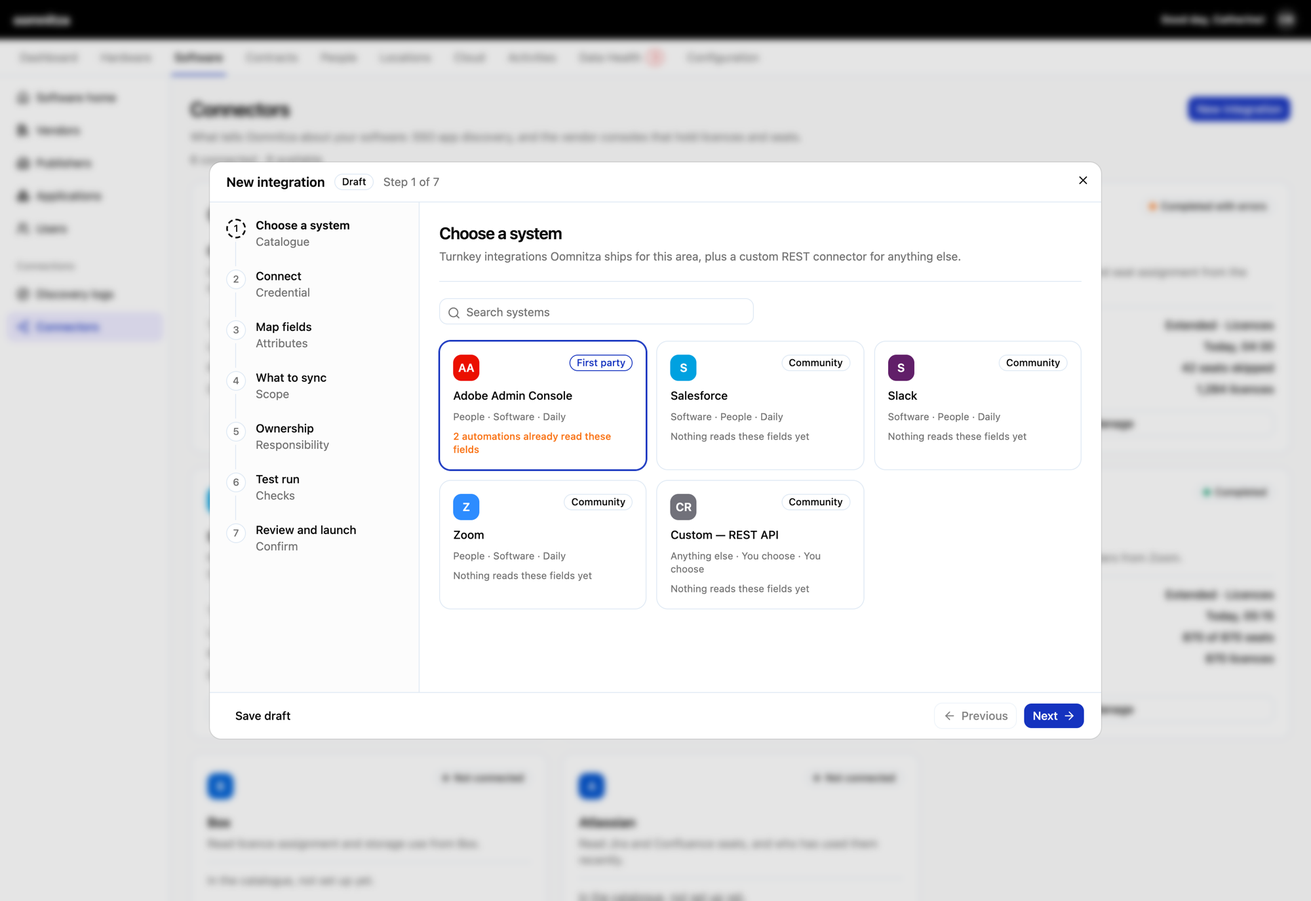
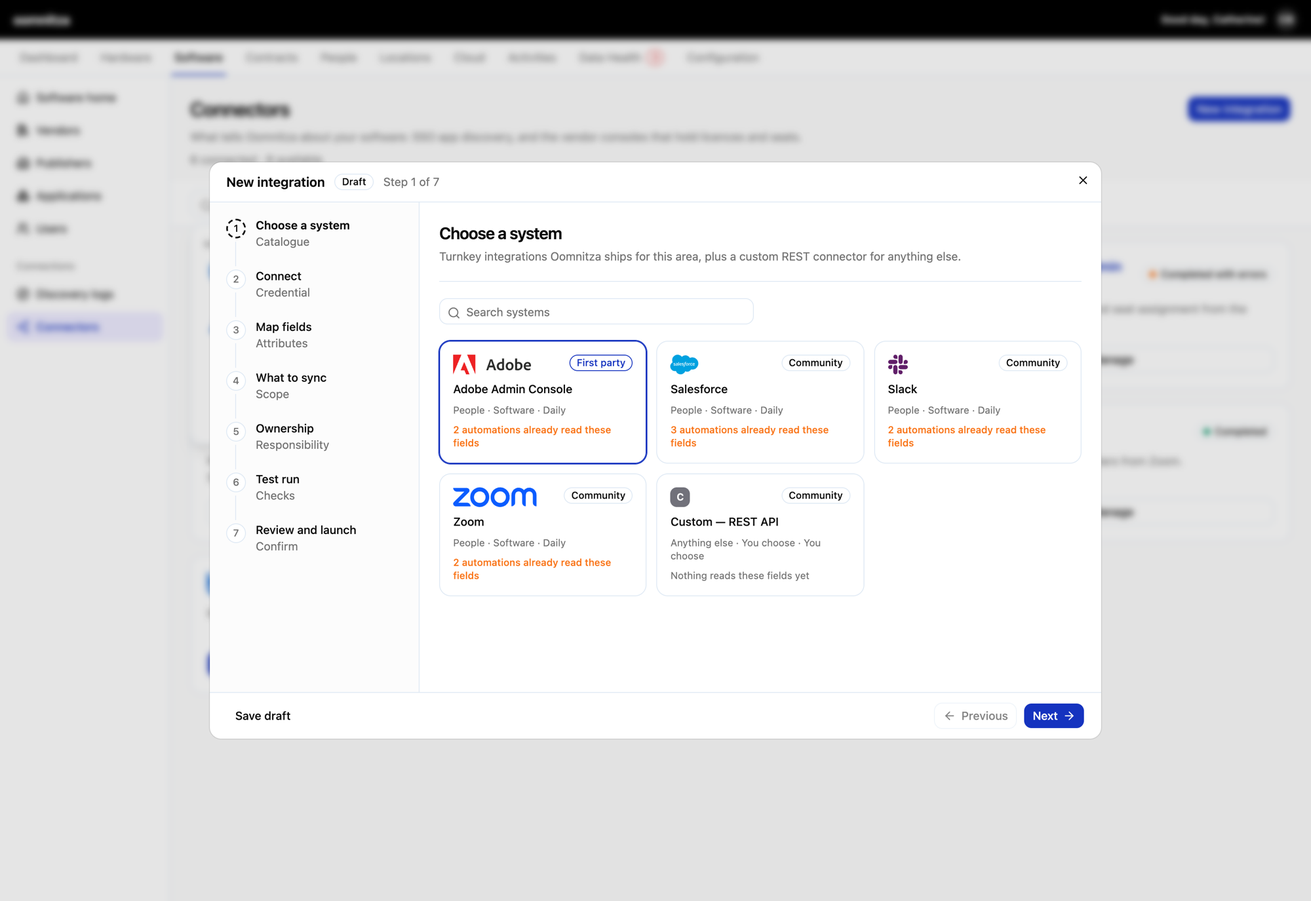
Re-shoot the integration work, and show it decision by decision
Every figure in the two newer sections is re-captured from the current
prototype: real vendor marks, cards stripped back to the mark, the name and
the state, and the catalogue search in place.

Two figures are new. The flow switcher gains Authorise, because choosing
OAuth now performs the handoff rather than naming it, and that step is the
one this case study has been arguing for all along: a credential with a name
on it. And one connector's own page, where the mappings shown are the rows
the setup flow writes.

Fig. S is a component gallery of nine decisions, each cropped to itself and
captioned with the claim it makes. The gallery script now binds to every
.gal-fig rather than one id, and crops render at their own size instead of
being stretched to the pane.

diff --git a/portfolio/index.html b/portfolio/index.html
@@ -1047,6 +1047,7 @@ section[id]{scroll-margin-top:72px}
 .gal-bar i{position:absolute;inset:0;background:var(--signal);transform-origin:left;transform:scaleX(0)}
 .gal-bar i.run{animation:galRun var(--t,4.5s) linear forwards}
 @keyframes galRun{to{transform:scaleX(1)}}
+#cx-fig .gal-stage img{width:auto;max-width:100%;margin-inline:auto}
 @media (max-width:860px){.gal{grid-template-columns:minmax(0,1fr)}.gal-list{border-right:0;border-bottom:1px solid var(--line);flex-direction:row;overflow-x:auto}.gal-list button{white-space:nowrap}.gal-list button span{display:none!important}}
 
 /* ---------- squadcurve: device collage ---------- */
@@ -2018,43 +2019,52 @@ section[id]{scroll-margin-top:72px}
         <p>Everything above is one integration failing. The same question runs backwards through the platform: an automation only breaks because something mapped a field to it, and nobody said so at the time. So I designed the step before the failure, where a system gets connected.</p>
         <p>Mapping is what creates the dependency. An automation reads an Oomnitza field, so it depends on whichever integration fills that field. Today you learn that when the integration stops. Here the flow says it before launch, while adding a freshness gate is still cheap.</p>
         <figure class="sheet">
-          <div class="shot" style="aspect-ratio:2000/1582" data-zoom><img src="img/dh-connectors.png" alt="The connectors catalogue in the prototype: a search field that stays with the reader, then a three-column grid of cards, each with the vendor mark, a status pill, what the connector reads, and its type, last run, records and what it discovered." width="2000" height="1582" loading="lazy" decoding="async"></div>
+          <div class="shot" style="aspect-ratio:2000/1125" data-zoom><img src="img/dh-connectors.png" alt="The connectors catalogue: a search field that stays with the reader, then a grid of cards, each with the vendor's own mark beside what the connector does, a status pill, and one line on what it reads." width="2000" height="1125" loading="lazy" decoding="async"></div>
           <figcaption class="titleblock"><span>Fig. M</span><span class="tb-title">The catalogue: what tells Oomnitza about your software<span class="zoom-hint"> · hover to magnify</span></span><span>Real screens</span></figcaption>
         </figure>
-        <p>Connectors are split by what they answer, not by vendor. SaaS discovery and the licence consoles sit under Software; the people and device syncs sit under Configuration. That split is Oomnitza’s own: it ships a separate integration for Okta users and for Okta SaaS management, so the same vendor appears in both areas as two integrations rather than one straddling the line.</p>
-        <p>Which is also why the search stays with the reader as the grid scrolls, and why it searches what a connector reads as well as who sells it. Someone who knows they need licence data often does not know which vendor console holds it. Focusing the field suggests what this catalogue can answer, the systems not set up yet and the types and states it holds, rather than popular searches, because nothing here counts them. A search that finds nothing says which of the two catalogues you are in and where the other one is.</p>
+        <p>A card answers two questions and stops: what is this, and is it working. The mark leads, so the name can drop the vendor it was repeating, and everything else, the last run, the records, what reads it, belongs to the one connector you opened rather than to all fourteen at once. Connectors are split by what they answer, not by vendor: SaaS discovery and the licence consoles under Software, the people and device syncs under Configuration. That split is Oomnitza's own, which ships a separate integration for Okta users and for Okta SaaS management.</p>
 
         <h3 class="mono hr-h">Seven steps, in a modal over the catalogue</h3>
         <p>Adding an integration is a detour, not a destination: it starts from the catalogue and ends back on it, so leaving half-done is a close rather than a navigation. Three of the steps came out of a pass over how Estuary, ClickUp, Fivetran and Airbyte handle the same job.</p>
         <div class="seg" role="tablist" aria-label="Integration step">
           <span class="seg-ind" aria-hidden="true"></span>
-          <button type="button" role="tab" id="tab-dh-f1" aria-controls="view-dh-f1" aria-selected="true" data-role="dh-f1">Choose a system</button>
-          <button type="button" role="tab" id="tab-dh-f2" aria-controls="view-dh-f2" aria-selected="false" tabindex="-1" data-role="dh-f2">Map fields</button>
-          <button type="button" role="tab" id="tab-dh-f3" aria-controls="view-dh-f3" aria-selected="false" tabindex="-1" data-role="dh-f3">Review and launch</button>
+          <button type="button" role="tab" id="tab-dh-f1" aria-controls="view-dh-f1" aria-selected="true" data-role="dh-f1">Choose</button>
+          <button type="button" role="tab" id="tab-dh-f2" aria-controls="view-dh-f2" aria-selected="false" tabindex="-1" data-role="dh-f2">Authorise</button>
+          <button type="button" role="tab" id="tab-dh-f3" aria-controls="view-dh-f3" aria-selected="false" tabindex="-1" data-role="dh-f3">Map fields</button>
+          <button type="button" role="tab" id="tab-dh-f4" aria-controls="view-dh-f4" aria-selected="false" tabindex="-1" data-role="dh-f4">Review</button>
         </div>
         <figure class="sheet">
           <div class="shot views" style="aspect-ratio:2000/1375" data-zoom>
             <div class="view on" id="view-dh-f1" role="tabpanel" aria-labelledby="tab-dh-f1"><img src="img/dh-flow-choose.png" alt="Step 1 of 7, Choose a system: a modal over the catalogue with the seven steps down the left, and vendor cards that each say what the connector writes, how often, who maintains it and how many automations already read those fields." width="2000" height="1375" loading="lazy" decoding="async"></div>
-            <div class="view" id="view-dh-f2" role="tabpanel" aria-labelledby="tab-dh-f2"><img src="img/dh-flow-map.png" alt="Step 3 of 7, Map fields: each vendor attribute against the Oomnitza field it writes and the object it belongs to, with email marked required and country left unmapped." width="2000" height="1375" loading="lazy" decoding="async"></div>
-            <div class="view" id="view-dh-f3" role="tabpanel" aria-labelledby="tab-dh-f3"><img src="img/dh-flow-review.png" alt="Step 7 of 7, Review and launch: a summary table, then What will depend on this, naming offboarding as having a freshness gate and a SAM licence rule as unable to take one." width="2000" height="1375" loading="lazy" decoding="async"></div>
+            <div class="view" id="view-dh-f2" role="tabpanel" aria-labelledby="tab-dh-f2"><img src="img/dh-flow-connect.png" alt="Step 2 of 7, Connect: the endpoint fields, the scopes ticked as granted, and a green panel saying who authorised the integration, when, and that the grant ends if that account is deactivated." width="2000" height="1375" loading="lazy" decoding="async"></div>
+            <div class="view" id="view-dh-f3" role="tabpanel" aria-labelledby="tab-dh-f3"><img src="img/dh-flow-map.png" alt="Step 3 of 7, Map fields: each vendor attribute against the Oomnitza field it writes and the object it belongs to, with one marked required and one left unmapped." width="2000" height="1375" loading="lazy" decoding="async"></div>
+            <div class="view" id="view-dh-f4" role="tabpanel" aria-labelledby="tab-dh-f4"><img src="img/dh-flow-review.png" alt="Step 7 of 7, Review and launch: a summary table, then What will depend on this, naming offboarding as having a freshness gate and a SAM licence rule as unable to take one." width="2000" height="1375" loading="lazy" decoding="async"></div>
           </div>
-          <figcaption class="titleblock"><span>Fig. N</span><span class="tb-title">Connecting a system, three of seven steps<span class="zoom-hint"> · hover to magnify</span></span><span>Real screens</span></figcaption>
+          <figcaption class="titleblock"><span>Fig. N</span><span class="tb-title">Connecting a system, four of seven steps<span class="zoom-hint"> · hover to magnify</span></span><span>Real screens</span></figcaption>
         </figure>
         <div class="notes">
           <div class="note" data-note="dh-f1"><ul class="ticks dots"><li>The catalogue card says what a connector writes, how often, who maintains it, and how many automations already read those fields, so the cost of adding it is legible before you add it.</li><li>The modal keeps the catalogue behind it. Cancelling at step 4 puts you back where you started, with a draft.</li></ul></div>
-          <div class="note" data-note="dh-f2" hidden><ul class="ticks dots"><li>Every row names the Oomnitza field and the object it writes to, because that is the thing an automation will later read.</li><li>An unmapped attribute is allowed, and the step says what that means rather than blocking: it is simply not imported.</li><li>Username is required and the integration stays in Draft until it is mapped, which follows Oomnitza’s own setup.</li></ul></div>
-          <div class="note" data-note="dh-f3" hidden><ul class="ticks dots"><li>Before launch, the step names each automation that will depend on this integration, and whether it can wait for it.</li><li>Offboarding has a freshness gate, so it waits. A SAM licence rule cannot take one, so it runs whether or not the integration completed.</li><li>This is the same dependency the workspace shows after a failure. Showing it here is the cheaper half of the same idea.</li></ul></div>
+          <div class="note" data-note="dh-f2" hidden><ul class="ticks dots"><li>Choosing OAuth performs the handoff rather than naming it: the step sends you to the vendor, waits, and comes back with who authorised it, when, and which scopes were granted.</li><li>An earlier version listed the scopes it would request and then never requested them, so OAuth and API key produced the same screen. Showing a promise and not keeping it is worse than not making it.</li><li>Re-authorise is the same control an admin uses when a credential expires, which is exactly what the Okta failure at the top of this case study turns out to be.</li></ul></div>
+          <div class="note" data-note="dh-f3" hidden><ul class="ticks dots"><li>Every row names the Oomnitza field and the object it writes to, because that is the thing an automation will later read.</li><li>An unmapped attribute is allowed, and the step says what that means rather than blocking: it is simply not imported.</li><li>Username is required and the integration stays in Draft until it is mapped, which follows Oomnitza's own setup.</li></ul></div>
+          <div class="note" data-note="dh-f4" hidden><ul class="ticks dots"><li>Before launch, the step names each automation that will depend on this integration, and whether it can wait for it.</li><li>Offboarding has a freshness gate, so it waits. A SAM licence rule cannot take one, so it runs whether or not the integration completed.</li><li>This is the same dependency the workspace shows after a failure. Showing it here is the cheaper half of the same idea.</li></ul></div>
         </div>
+
+        <h3 class="mono hr-h">Then the connector has a page of its own</h3>
+        <p>Three tabs: what it is, what its runs did, and what reads it. The page makes no recommendation, because which of those workflows matters is the reader's call. The mappings it shows are the same rows the setup flow writes, and the workflows are computed from them, so the two screens cannot drift apart.</p>
+        <figure class="sheet">
+          <div class="shot" style="aspect-ratio:2000/1300" data-zoom><img src="img/dh-connector-detail.png" alt="One connector's page: Adobe Admin Console with Details, Sync log and Connected workflows tabs, showing the credential, the last authentication result and the schedule." width="2000" height="1300" loading="lazy" decoding="async"></div>
+          <figcaption class="titleblock"><span>Fig. O</span><span class="tb-title">One connector: details, sync log, connected workflows<span class="zoom-hint"> · hover to magnify</span></span><span>Real screens</span></figcaption>
+        </figure>
       </section>
 
       <section id="dh-discovery" class="cs-sec" data-switcher>
         <p class="eyebrow mono">Software discovery</p>
         <h2>Nothing is an application until somebody says so.</h2>
         <p>Once those connectors run, SaaS discovery returns everything people sign into: products, the publishers behind them, raw domains, one-off internal tools. None of it is categorised, and in a real tenant there are hundreds of rows. A discovery log is a holding area, not an inventory.</p>
-        <p>The decision is one way. A wrong match is harder to undo than an unmatched row, so the design never guesses on the reader’s behalf: Oomnitza proposes, a person decides, and the dialog says plainly that the entry cannot be anything else afterwards.</p>
+        <p>The decision is one way. A wrong match is harder to undo than an unmatched row, so the design never guesses on the reader's behalf: Oomnitza proposes, a person decides, and the dialog says plainly that the entry cannot be anything else afterwards.</p>
         <figure class="sheet">
           <div class="shot" style="aspect-ratio:2000/1375" data-zoom><img src="img/dh-discovery.png" alt="Discovery logs: a table of discovered entries with what found each one, when it was first seen and how many users it has, and a Log actions menu open on the Atlassian row offering Match as publisher, Match as application and Ignore." width="2000" height="1375" loading="lazy" decoding="async"></div>
-          <figcaption class="titleblock"><span>Fig. O</span><span class="tb-title">Every entry is new until it is matched or excluded<span class="zoom-hint"> · hover to magnify</span></span><span>Real screens</span></figcaption>
+          <figcaption class="titleblock"><span>Fig. P</span><span class="tb-title">Every entry is new until it is matched or excluded<span class="zoom-hint"> · hover to magnify</span></span><span>Real screens</span></figcaption>
         </figure>
         <ul class="ticks dots hr-list">
           <li>Rows carry no suggested category. Oomnitza classifies what a rule can decide and leaves the rest alone, so a row says what was found and who found it, never what it probably is.</li>
@@ -2062,7 +2072,7 @@ section[id]{scroll-margin-top:72px}
           <li>Ignoring is a decision too, so it has its own tab and counts as categorised.</li>
         </ul>
 
-        <h3 class="mono hr-h">Search what exists, or add what doesn’t</h3>
+        <h3 class="mono hr-h">Search what exists, or add what doesn't</h3>
         <p>Those are the only two outcomes, so they are the only two tabs. Search leads, because an inventory with two spellings of Atlassian in it is the problem this step exists to prevent.</p>
         <div class="seg" role="tablist" aria-label="How to resolve an entry">
           <span class="seg-ind" aria-hidden="true"></span>
@@ -2074,20 +2084,27 @@ section[id]{scroll-margin-top:72px}
             <div class="view on" id="view-dh-m1" role="tabpanel" aria-labelledby="tab-dh-m1"><img src="img/dh-match-search.png" alt="Match Atlassian as a publisher, Search tab: four ranked candidates, each with a confidence level, where it came from, and a line saying why it is a candidate." width="2000" height="1375" loading="lazy" decoding="async"></div>
             <div class="view" id="view-dh-m2" role="tabpanel" aria-labelledby="tab-dh-m2"><img src="img/dh-match-add.png" alt="The same dialog, Add tab: publisher name prefilled with the discovered name, website and support email, a Confirm and add to inventory checkbox on by default, and a warning that the match cannot be changed." width="2000" height="1375" loading="lazy" decoding="async"></div>
           </div>
-          <figcaption class="titleblock"><span>Fig. P</span><span class="tb-title">Matching “Atlassian” as a publisher<span class="zoom-hint"> · hover to magnify</span></span><span>Real screens</span></figcaption>
+          <figcaption class="titleblock"><span>Fig. Q</span><span class="tb-title">Matching “Atlassian” as a publisher<span class="zoom-hint"> · hover to magnify</span></span><span>Real screens</span></figcaption>
         </figure>
         <div class="notes">
-          <div class="note" data-note="dh-m1"><ul class="ticks dots"><li>Four candidates, strongest first, each saying why it is one: an exact name match, a domain that resolves to a publisher, a former registered name, a difference of legal suffix only.</li><li>Each says where it came from, the tenant’s own inventory or the catalogue Oomnitza ships, and how confident the match is. A weak candidate is still shown, labelled weak, rather than hidden.</li><li>Candidates appear only after you have said what kind of thing this is, because that is the part a rule cannot decide for you.</li></ul></div>
+          <div class="note" data-note="dh-m1"><ul class="ticks dots"><li>Four candidates, strongest first, each saying why it is one: an exact name match, a domain that resolves to a publisher, a former registered name, a difference of legal suffix only.</li><li>Each says where it came from, the tenant's own inventory or the catalogue Oomnitza ships, and how confident the match is. A weak candidate is still shown, labelled weak, rather than hidden.</li><li>Candidates appear only after you have said what kind of thing this is, because that is the part a rule cannot decide for you.</li></ul></div>
           <div class="note" data-note="dh-m2" hidden><ul class="ticks dots"><li>The name is prefilled with what was discovered, with a prompt to change it when that name is a domain or a product alias rather than what the company calls it.</li><li>Confirming and adding to the inventory is one checkbox, on by default, so matching and stocking are not two separate chores.</li><li>Matching an application takes a publisher, and creates it in the same step if it does not exist yet, rather than sending you away to make one first.</li></ul></div>
         </div>
 
         <h3 class="mono hr-h">Publishers come first</h3>
         <p>An application belongs to a publisher, which is why a discovery cannot become an application until its publisher exists. That constraint is the reason the chain is ordered the way it is, and the reason the Add tab offers to create the publisher rather than refusing.</p>
         <figure class="sheet">
-          <div class="shot" style="aspect-ratio:2000/1037" data-zoom><img src="img/dh-publishers.png" alt="Publishers: who makes the software you hold, with applications, licences, annual spend and which connector discovered each one, and a panel saying 138 discovered entries are still uncategorised." width="2000" height="1037" loading="lazy" decoding="async"></div>
-          <figcaption class="titleblock"><span>Fig. Q</span><span class="tb-title">Publishers, and what is still waiting behind them<span class="zoom-hint"> · hover to magnify</span></span><span>Real screens</span></figcaption>
+          <div class="shot" style="aspect-ratio:2000/1075" data-zoom><img src="img/dh-publishers.png" alt="Publishers: who makes the software you hold, with applications, licences, annual spend and which connector discovered each one, and a panel saying 138 discovered entries are still uncategorised." width="2000" height="1075" loading="lazy" decoding="async"></div>
+          <figcaption class="titleblock"><span>Fig. R</span><span class="tb-title">Publishers, and what is still waiting behind them<span class="zoom-hint"> · hover to magnify</span></span><span>Real screens</span></figcaption>
         </figure>
         <p>Which closes the loop back to the top of this case study. Uncategorised discoveries are not wrong data, they are absent data, and completeness cannot see them: it only counts records that already exist. So Data Health gained a fifth measure, inventory coverage, and the backlog became the longest-open item on the page.</p>
+
+        <h3 class="mono hr-h">Nine decisions, up close</h3>
+        <p>Every screen above is made of these. Each one is a choice about what the product is allowed to claim.</p>
+        <figure class="sheet gal-fig" id="cx-fig">
+          <div class="gal"><ul class="gal-list" role="tablist" aria-label="Decisions"><li><button type="button" role="tab" id="cx-t0" aria-controls="cx-p0" aria-selected="true" tabindex="0"><b>Catalogue card</b><span>Two questions and stop: what is this, and is it working. The mark carries the vendor, so the name carries the job.</span></button></li><li><button type="button" role="tab" id="cx-t1" aria-controls="cx-p1" aria-selected="false" tabindex="-1"><b>Search suggestions</b><span>What this catalogue can answer, not what is popular. Nothing here counts searches, so nothing claims to.</span></button></li><li><button type="button" role="tab" id="cx-t2" aria-controls="cx-p2" aria-selected="false" tabindex="-1"><b>Vendor card</b><span>The cost of a connector before you add it: what it writes, how often, and how many automations already read those fields.</span></button></li><li><button type="button" role="tab" id="cx-t3" aria-controls="cx-p3" aria-selected="false" tabindex="-1"><b>Authorisation</b><span>Who authorised it, when, and what ends the grant. A credential with no name on it is the failure this whole project starts from.</span></button></li><li><button type="button" role="tab" id="cx-t4" aria-controls="cx-p4" aria-selected="false" tabindex="-1"><b>Field mapping</b><span>The row where a field gets a source. Unmapped is a decision, so the step says what it means instead of blocking.</span></button></li><li><button type="button" role="tab" id="cx-t5" aria-controls="cx-p5" aria-selected="false" tabindex="-1"><b>What will depend on this</b><span>Named before launch, with whether each one can wait. The same dependency the failure screen shows, half a year earlier.</span></button></li><li><button type="button" role="tab" id="cx-t6" aria-controls="cx-p6" aria-selected="false" tabindex="-1"><b>Log actions</b><span>Three outcomes, one menu, no default. Matching is one way, so the product proposes and a person decides.</span></button></li><li><button type="button" role="tab" id="cx-t7" aria-controls="cx-p7" aria-selected="false" tabindex="-1"><b>Ranked candidates</b><span>Each says why it is a candidate and how sure it is. A weak match is shown, labelled weak, rather than hidden.</span></button></li><li><button type="button" role="tab" id="cx-t8" aria-controls="cx-p8" aria-selected="false" tabindex="-1"><b>What is still waiting</b><span>The backlog follows you to the page that depends on it, because absent data is invisible to every other measure.</span></button></li></ul><div class="gal-stage"><figure class="on" id="cx-p0" role="tabpanel" aria-labelledby="cx-t0"><div class="pane"><img src="img/dh-c-card.png" alt="A connector card: the Okta mark beside SaaS management, a Completed pill, one line on what it reads, and Manage." width="930" height="420" loading="lazy" decoding="async"></div><figcaption>Two questions and stop: what is this, and is it working.</figcaption></figure><figure id="cx-p1" role="tabpanel" aria-labelledby="cx-t1"><div class="pane"><img src="img/dh-c-search.png" alt="The search suggestions panel: the systems in the catalogue not set up yet, and the types and states it holds." width="1528" height="596" loading="lazy" decoding="async"></div><figcaption>What this catalogue can answer, not what is popular.</figcaption></figure><figure id="cx-p2" role="tabpanel" aria-labelledby="cx-t2"><div class="pane"><img src="img/dh-c-vendor.png" alt="A vendor card in the catalogue step, showing objects, frequency, who maintains it and how many automations already read its fields." width="562" height="356" loading="lazy" decoding="async"></div><figcaption>The cost of a connector, before you add it.</figcaption></figure><figure id="cx-p3" role="tabpanel" aria-labelledby="cx-t3"><div class="pane"><img src="img/dh-c-authorised.png" alt="The authorisation panel: authorised by an account, when, how the grant refreshes, and a Re-authorise action." width="1584" height="468" loading="lazy" decoding="async"></div><figcaption>Who authorised it, when, and what ends the grant.</figcaption></figure><figure id="cx-p4" role="tabpanel" aria-labelledby="cx-t4"><div class="pane"><img src="img/dh-c-map.png" alt="The field mapping table: vendor attribute, Oomnitza field, object, with one required and one not mapped." width="1624" height="430" loading="lazy" decoding="async"></div><figcaption>The row where a field gets a source.</figcaption></figure><figure id="cx-p5" role="tabpanel" aria-labelledby="cx-t5"><div class="pane"><img src="img/dh-c-depends.png" alt="What will depend on this: offboarding with a freshness gate, and a SAM licence rule that cannot take one." width="1832" height="636" loading="lazy" decoding="async"></div><figcaption>Named before launch, with whether each one can wait.</figcaption></figure><figure id="cx-p6" role="tabpanel" aria-labelledby="cx-t6"><div class="pane"><img src="img/dh-c-logactions.png" alt="The Log actions menu on a discovery row: match as publisher, match as application, or ignore." width="504" height="366" loading="lazy" decoding="async"></div><figcaption>Three outcomes, one menu, no default.</figcaption></figure><figure id="cx-p7" role="tabpanel" aria-labelledby="cx-t7"><div class="pane"><img src="img/dh-c-candidates.png" alt="Four ranked candidates for Atlassian, each with a confidence level, a source and the reason it is a candidate." width="1336" height="872" loading="lazy" decoding="async"></div><figcaption>Each says why it is a candidate, and how sure it is.</figcaption></figure><figure id="cx-p8" role="tabpanel" aria-labelledby="cx-t8"><div class="pane"><img src="img/dh-c-wherefrom.png" alt="Where publishers come from: most arrive from the discovery logs, with 138 entries still uncategorised and a way through to them." width="1536" height="340" loading="lazy" decoding="async"></div><figcaption>The backlog follows you to the page that depends on it.</figcaption></figure><span class="gal-bar" aria-hidden="true"><i></i></span></div></div>
+          <figcaption class="titleblock"><span>Fig. S</span><span class="tb-title">The integration and discovery work, decision by decision</span><span>9 decisions</span></figcaption>
+        </figure>
       </section>
 
       <section id="dh-next" class="cs-sec">
@@ -3099,7 +3116,8 @@ document.querySelectorAll('.hta').forEach(h => {
 
 /* ---------- design system: component gallery ---------- */
 (function gallery(){
-  const fig = document.getElementById('gal-fig'); if (!fig) return;
+  document.querySelectorAll('.gal-fig').forEach(setUp);
+  function setUp(fig){
   const tabs = [...fig.querySelectorAll('.gal-list [role="tab"]')], panes = [...fig.querySelectorAll('.gal-stage figure')], bar = fig.querySelector('.gal-bar i');
   const T = 4500; let idx = 0, timer = 0, auto = !reduce, visible = false, hover = false;
   function run(){
@@ -3125,6 +3143,7 @@ document.querySelectorAll('.hta').forEach(h => {
   fig.addEventListener('pointerleave', () => { hover = false; run(); });
   fig.addEventListener('enter', () => { visible = true; run(); });
   fig.addEventListener('leave', () => { visible = false; run(); });
+  }
 })();
 
 /* ---------- nav + clock ---------- */
